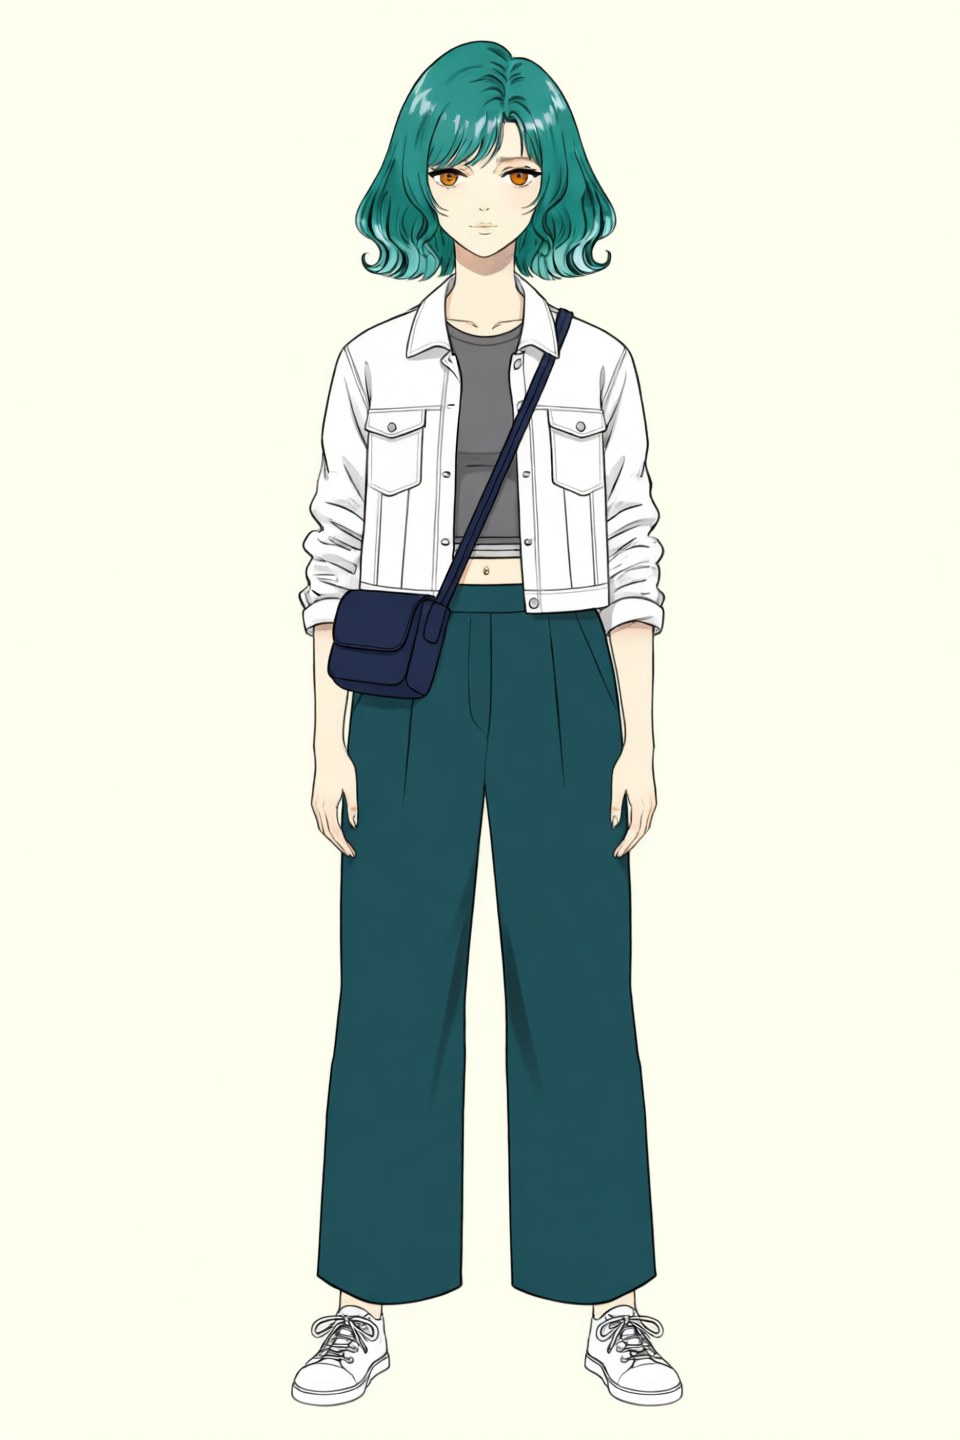
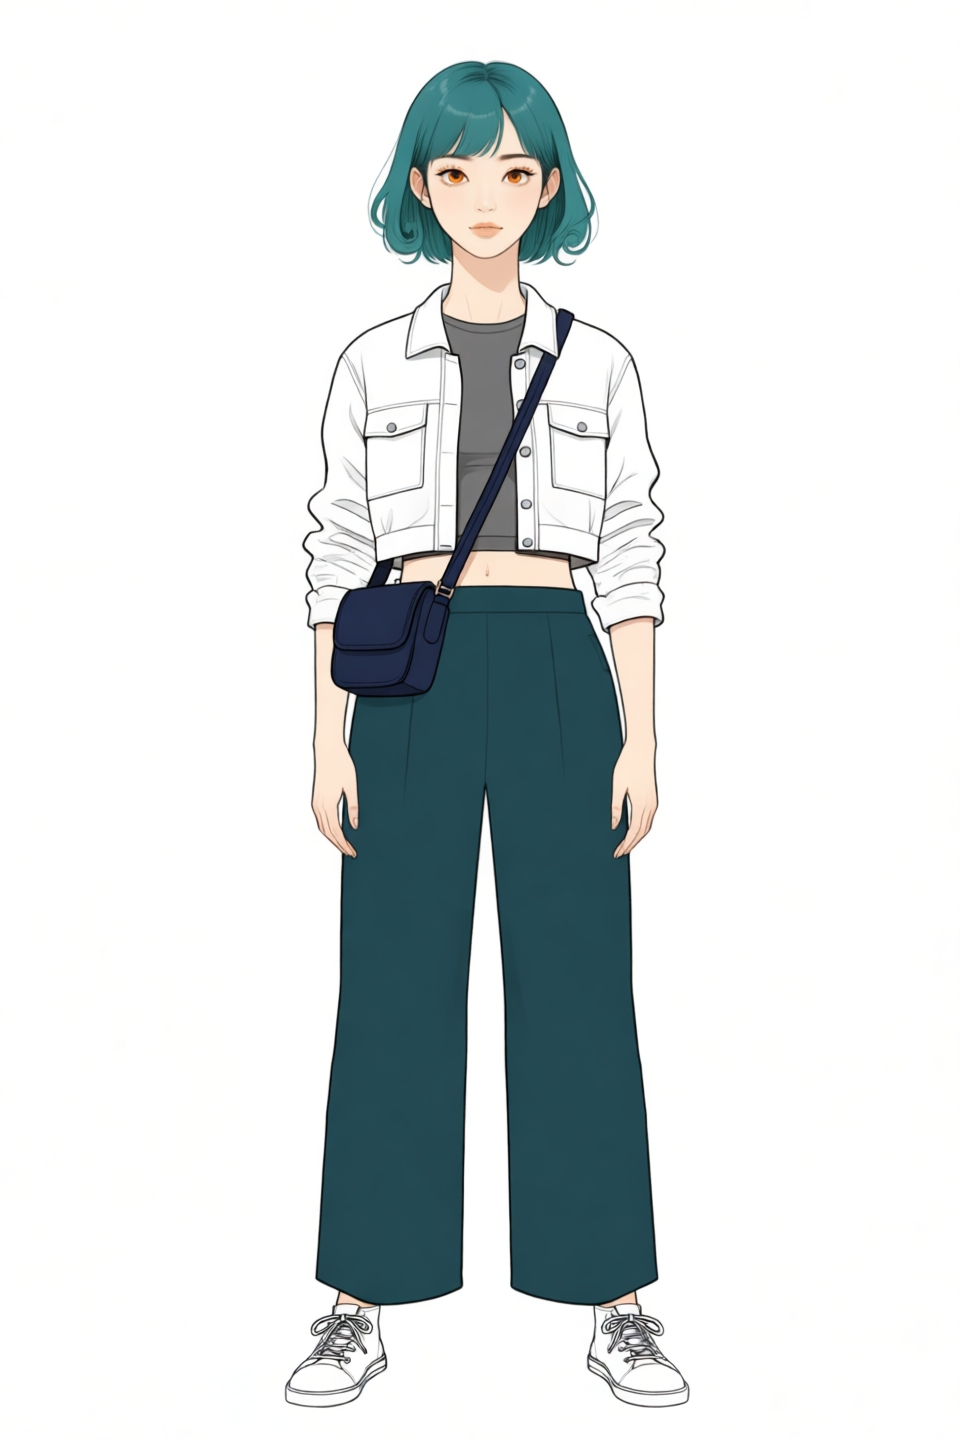
feat(p7-5-2): approve text-only head and fullbody references

diff --git a/docs/assets/part-07/chapter-05/p7_5_2_qwen_edit_reference_pilot.py b/docs/assets/part-07/chapter-05/p7_5_2_qwen_edit_reference_pilot.py
@@ -22,7 +22,7 @@ from pathlib import Path
 
 import numpy as np
 import torch
-from diffusers import QwenImageEditPlusPipeline
+from diffusers import QwenImageEditPlusPipeline, QwenImagePipeline
 from diffusers.utils import load_image
 from nunchaku import NunchakuQwenImageTransformer2DModel
 from PIL import Image
@@ -34,6 +34,8 @@ IDENTITY_CONTRACT = ASSETS / "p7-5-2-character-identity-contract.json"
 STYLE_CONTRACT = ASSETS / "p7-5-2-character-reference-style-prompt-contract.json"
 MODEL_ID = "Qwen/Qwen-Image-Edit-2509"
 TRANSFORMER_ID = "nunchaku-tech/nunchaku-qwen-image-edit-2509/svdq-fp4_r128-qwen-image-edit-2509.safetensors"
+BASE_MODEL_ID = "Qwen/Qwen-Image"
+BASE_TRANSFORMER_ID = "/home/cbsim/.cache/huggingface/hub/models--nunchaku-tech--nunchaku-qwen-image/snapshots/4d9f4f667ea571ab172e0ee29ac2c27b82a41a6b/svdq-fp4_r128-qwen-image.safetensors"
 OUTPUT_DIR = ASSETS / "p7-5-2-qwen-edit-candidates"
 DEFAULT_STEPS = 20
 QWEN_FACE_REFERENCE = "p7-5-2-face-front-qwen-role-separated-reference.png"
@@ -50,13 +52,16 @@ HAIR_VOLUME_RULE = (
 )
 
 TARGETS = {
-    "face_front": {
-        "inputs": (QWEN_FACE_REFERENCE,),
+    "head_front": {
+        "inputs": (),
         "size": (768, 768),
         "prompt": (
-            "Use image 1 only as the exact Qwen front-face identity reference. Preserve its compact oval face, "
-            "petrol-teal jaw-length bob, long slender almond eyes with gently upturned outer corners, moderately narrow "
-            "eyelid openings, and equal orange-amber irises. "
+            "Create a clean strict frontal head-and-neck studio reference of one young East Asian adult woman in her early twenties. Prioritize the complete "
+            "head silhouette: compact oval face, petrol-teal jaw-length bob, high-volume rounded crown, fringe, side locks, ears, and neck. "
+            "Keep long slender eyes with gently upturned outer corners, moderately narrow "
+            "eyelid openings, and equal orange-amber irises. Render two clearly distinct, centered, round dark pupils "
+            "inside the irises; keep each pupil visibly separated from the upper eyelid line and eyeliner, never slit-shaped, "
+            "horizontally elongated, or merged into the lash line. "
             f"{HAIR_VOLUME_RULE} Create one clean strict frontal head-and-neck "
             "studio reference. No text, panel, collage, accessory, or background scene."
         ),
@@ -83,8 +88,10 @@ TARGETS = {
             "front studio character reference of the same adult woman, standing upright with both arms relaxed at her sides, "
             "centered and visible continuously from the hair crown to both shoe soles. Preserve the compact oval face, "
             "orange-amber irises, asymmetric fringe, and high-volume petrol-teal jaw-length bob. Dress her in a closed "
-            "white cropped utility jacket with two chest flap pockets and long cuffed sleeves, over a charcoal-gray "
-            "micro-crop crew-neck inner top with only a narrow gray band visible below the jacket hem and a small bare-midriff gap. "
+            "white cropped utility jacket with two chest flap pockets and full long sleeves worn completely down to the wrists, "
+            "never rolled or pushed up. The short jacket hem ends at the lower ribcage, well above the navel and high waist, "
+            "never at hip length. Wear it over a charcoal-gray micro-crop crew-neck inner top with a clearly visible gray band "
+            "below the jacket hem and a visible bare-midriff gap before the high-waisted trousers. "
             "Wear high-waisted deep-teal wide-leg trousers with a visibly loose straight drape from hip to ankle, never skinny pants; "
             "white lace-up low-top sneakers with complete soles; and one deep-navy crossbody bag resting at the outer left hip. "
             "The taut navy strap begins at the wearer's right shoulder, crosses outside the jacket, and connects visibly to the bag. "
@@ -118,7 +125,7 @@ FACE_DIRECTION_RULES = {
 
 for target_id, direction in FACE_DIRECTION_RULES.items():
     visible_face_rule = (
-        "Preserve the compact oval face, long slender almond eyes with gently upturned outer corners, equal orange-amber irises, "
+        "Preserve the compact oval face, long slender eyes with gently upturned outer corners, equal orange-amber irises, "
         f"and petrol-teal jaw-length bob. {HAIR_VOLUME_RULE}"
         if target_id != "face_rear"
         else f"Preserve only the petrol-teal jaw-length bob silhouette, nape hairline, and hair color. {HAIR_VOLUME_RULE}"
@@ -285,9 +292,12 @@ def runtime_record() -> dict[str, object]:
     }
 
 
-def load_pipeline() -> QwenImageEditPlusPipeline:
-    transformer = NunchakuQwenImageTransformer2DModel.from_pretrained(TRANSFORMER_ID)
-    pipe = QwenImageEditPlusPipeline.from_pretrained(MODEL_ID, transformer=transformer, torch_dtype=torch.bfloat16)
+def load_pipeline(image_edit: bool):
+    transformer_id = TRANSFORMER_ID if image_edit else BASE_TRANSFORMER_ID
+    model_id = MODEL_ID if image_edit else BASE_MODEL_ID
+    transformer = NunchakuQwenImageTransformer2DModel.from_pretrained(transformer_id)
+    pipeline_type = QwenImageEditPlusPipeline if image_edit else QwenImagePipeline
+    pipe = pipeline_type.from_pretrained(model_id, transformer=transformer, torch_dtype=torch.bfloat16, local_files_only=True)
     transformer.set_offload(True, use_pin_memory=False, num_blocks_on_gpu=1)
     pipe._exclude_from_cpu_offload.append("transformer")
     pipe.enable_sequential_cpu_offload()
@@ -324,23 +334,26 @@ def main() -> None:
     output = args.output_dir / f"{stem}.png"
     run_record = args.output_dir / f"{stem}-run.json"
     started = time.monotonic()
-    result = load_pipeline()(
-        image=[load_image(str(path)).convert("RGB") for path in inputs],
-        prompt=prompt,
-        generator=torch.Generator("cpu").manual_seed(args.seed),
-        true_cfg_scale=4.0,
-        negative_prompt=" ",
-        num_inference_steps=args.steps,
-        guidance_scale=1.0,
-        width=width,
-        height=height,
-    ).images[0]
+    pipeline = load_pipeline(image_edit=bool(inputs))
+    generation = {
+        "prompt": prompt,
+        "generator": torch.Generator("cpu").manual_seed(args.seed),
+        "true_cfg_scale": 4.0,
+        "negative_prompt": " ",
+        "num_inference_steps": args.steps,
+        "guidance_scale": 1.0,
+        "width": width,
+        "height": height,
+    }
+    if inputs:
+        generation["image"] = [load_image(str(path)).convert("RGB") for path in inputs]
+    result = pipeline(**generation).images[0]
     result.save(output)
     record = {
         "status": "review_required",
         "experiment_id": f"p7-5-2-qwen-edit-{args.target}",
-        "model": MODEL_ID,
-        "transformer": TRANSFORMER_ID,
+        "model": MODEL_ID if inputs else BASE_MODEL_ID,
+        "transformer": TRANSFORMER_ID if inputs else BASE_TRANSFORMER_ID,
         "runtime": runtime_record(),
         "transition_plan": asset_record(PLAN),
         "identity_contract": asset_record(IDENTITY_CONTRACT),
@@ -353,7 +366,7 @@ def main() -> None:
             if args.target == "face_front_quarter_left"
             else
             ["face_identity"]
-            if args.target == "face_front" or (args.target in FACE_DIRECTION_RULES and len(target["inputs"]) == 1)
+            if args.target == "head_front" or (args.target in FACE_DIRECTION_RULES and len(target["inputs"]) == 1)
             else ["face_identity", "standard_openpose_face_geometry"]
             if args.target in FACE_DIRECTION_RULES
             else ["body_and_complete_outfit", "face_identity"]

diff --git a/management/release-notes/sections/part-07/P7-5.2.md b/management/release-notes/sections/part-07/P7-5.2.md
@@ -5,6 +5,7 @@
 
 ### v2026.08.18
 
+- Qwen 정면 머리·전신 정면 갱신: 이미지 입력 없이 만든 v31 정면 머리(768×768, 20 step)를 사람 승인하고 현재 Qwen 정면 기준으로 교체했다. 이 기준 하나를 identity 입력으로 써 v32 전신 정면(960×1440, 20 step)도 승인했으며, 짧은 흰 크롭 재킷·손목까지 내린 소매·회색 이너 탑·피부 띠·하이웨이스트 와이드 팬츠·운동화·가방을 안정 자산과 원고에 반영했다.
 - Qwen 전신 정면 승인: 승인 Qwen 정면 얼굴만 identity 입력으로 쓴 seed=62294, 960×1440, 20 step 후보를 사람 승인했다. 흰 크롭 재킷·회색 이너 탑·청록 와이드 팬츠·흰 운동화·남색 크로스백을 포함하는 별도 안정 자산과 검수 기록으로 등록했으며, 기존 FLUX 기반 전신 앵커는 덮어쓰지 않았다.
 - Qwen 정면 기준 재승인: 화풍 계약에서 `Korean webtoon` 표현을 제거한 뒤, 이전 승인 Qwen 정면만 identity 입력으로 사용하는 v18 `seed=62294`, `768×768`, 20 step 후보를 사람 승인해 현재 정면 기준 PNG와 review 기록을 교체했다. 이전 Qwen 정면 입력은 Git revision으로 기록해 재현 이력을 보존한다.
 - Qwen 정면 기준 승인: P7-5.1 공통 화풍 계약을 positive prompt로만 결합한 `seed=62294`, `768×768`, 20 step 정면 얼굴을 사람 승인해 별도 Qwen 안정 자산으로 등록했다. 30·40 step 후보는 승인하지 않고 제거했으며, Qwen 후보 생성기의 기본값은 20 step으로 명시했다.
